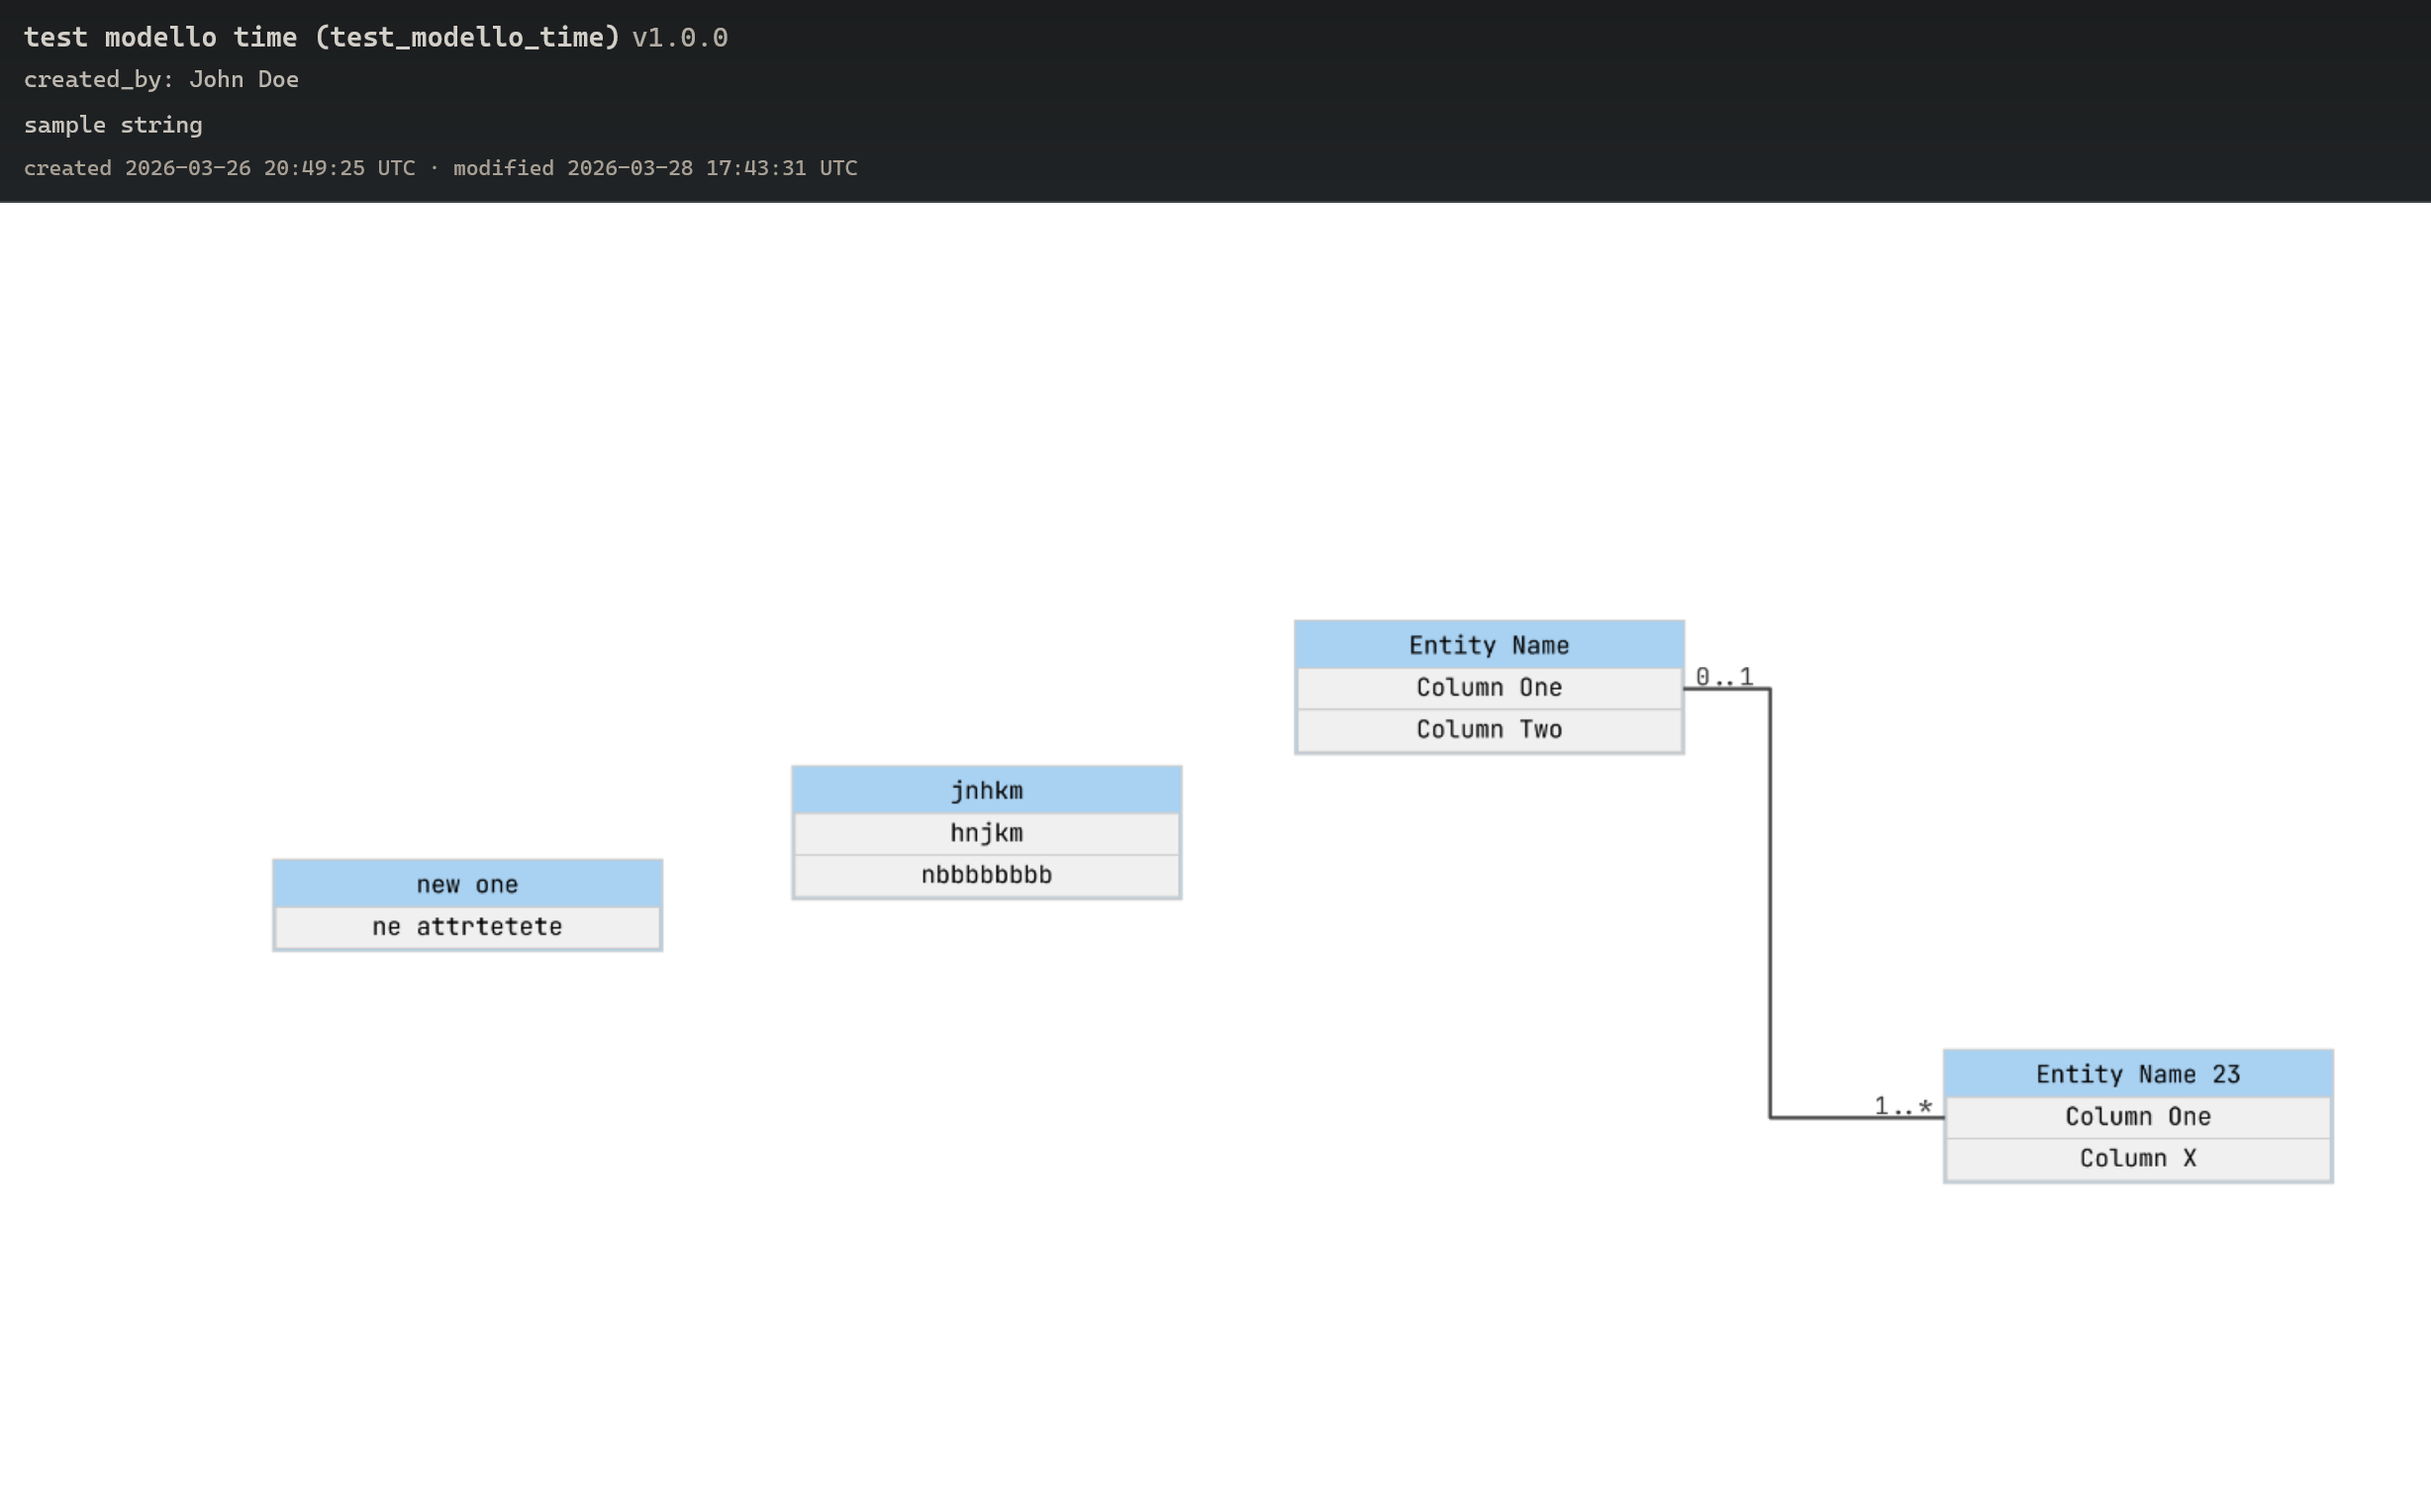
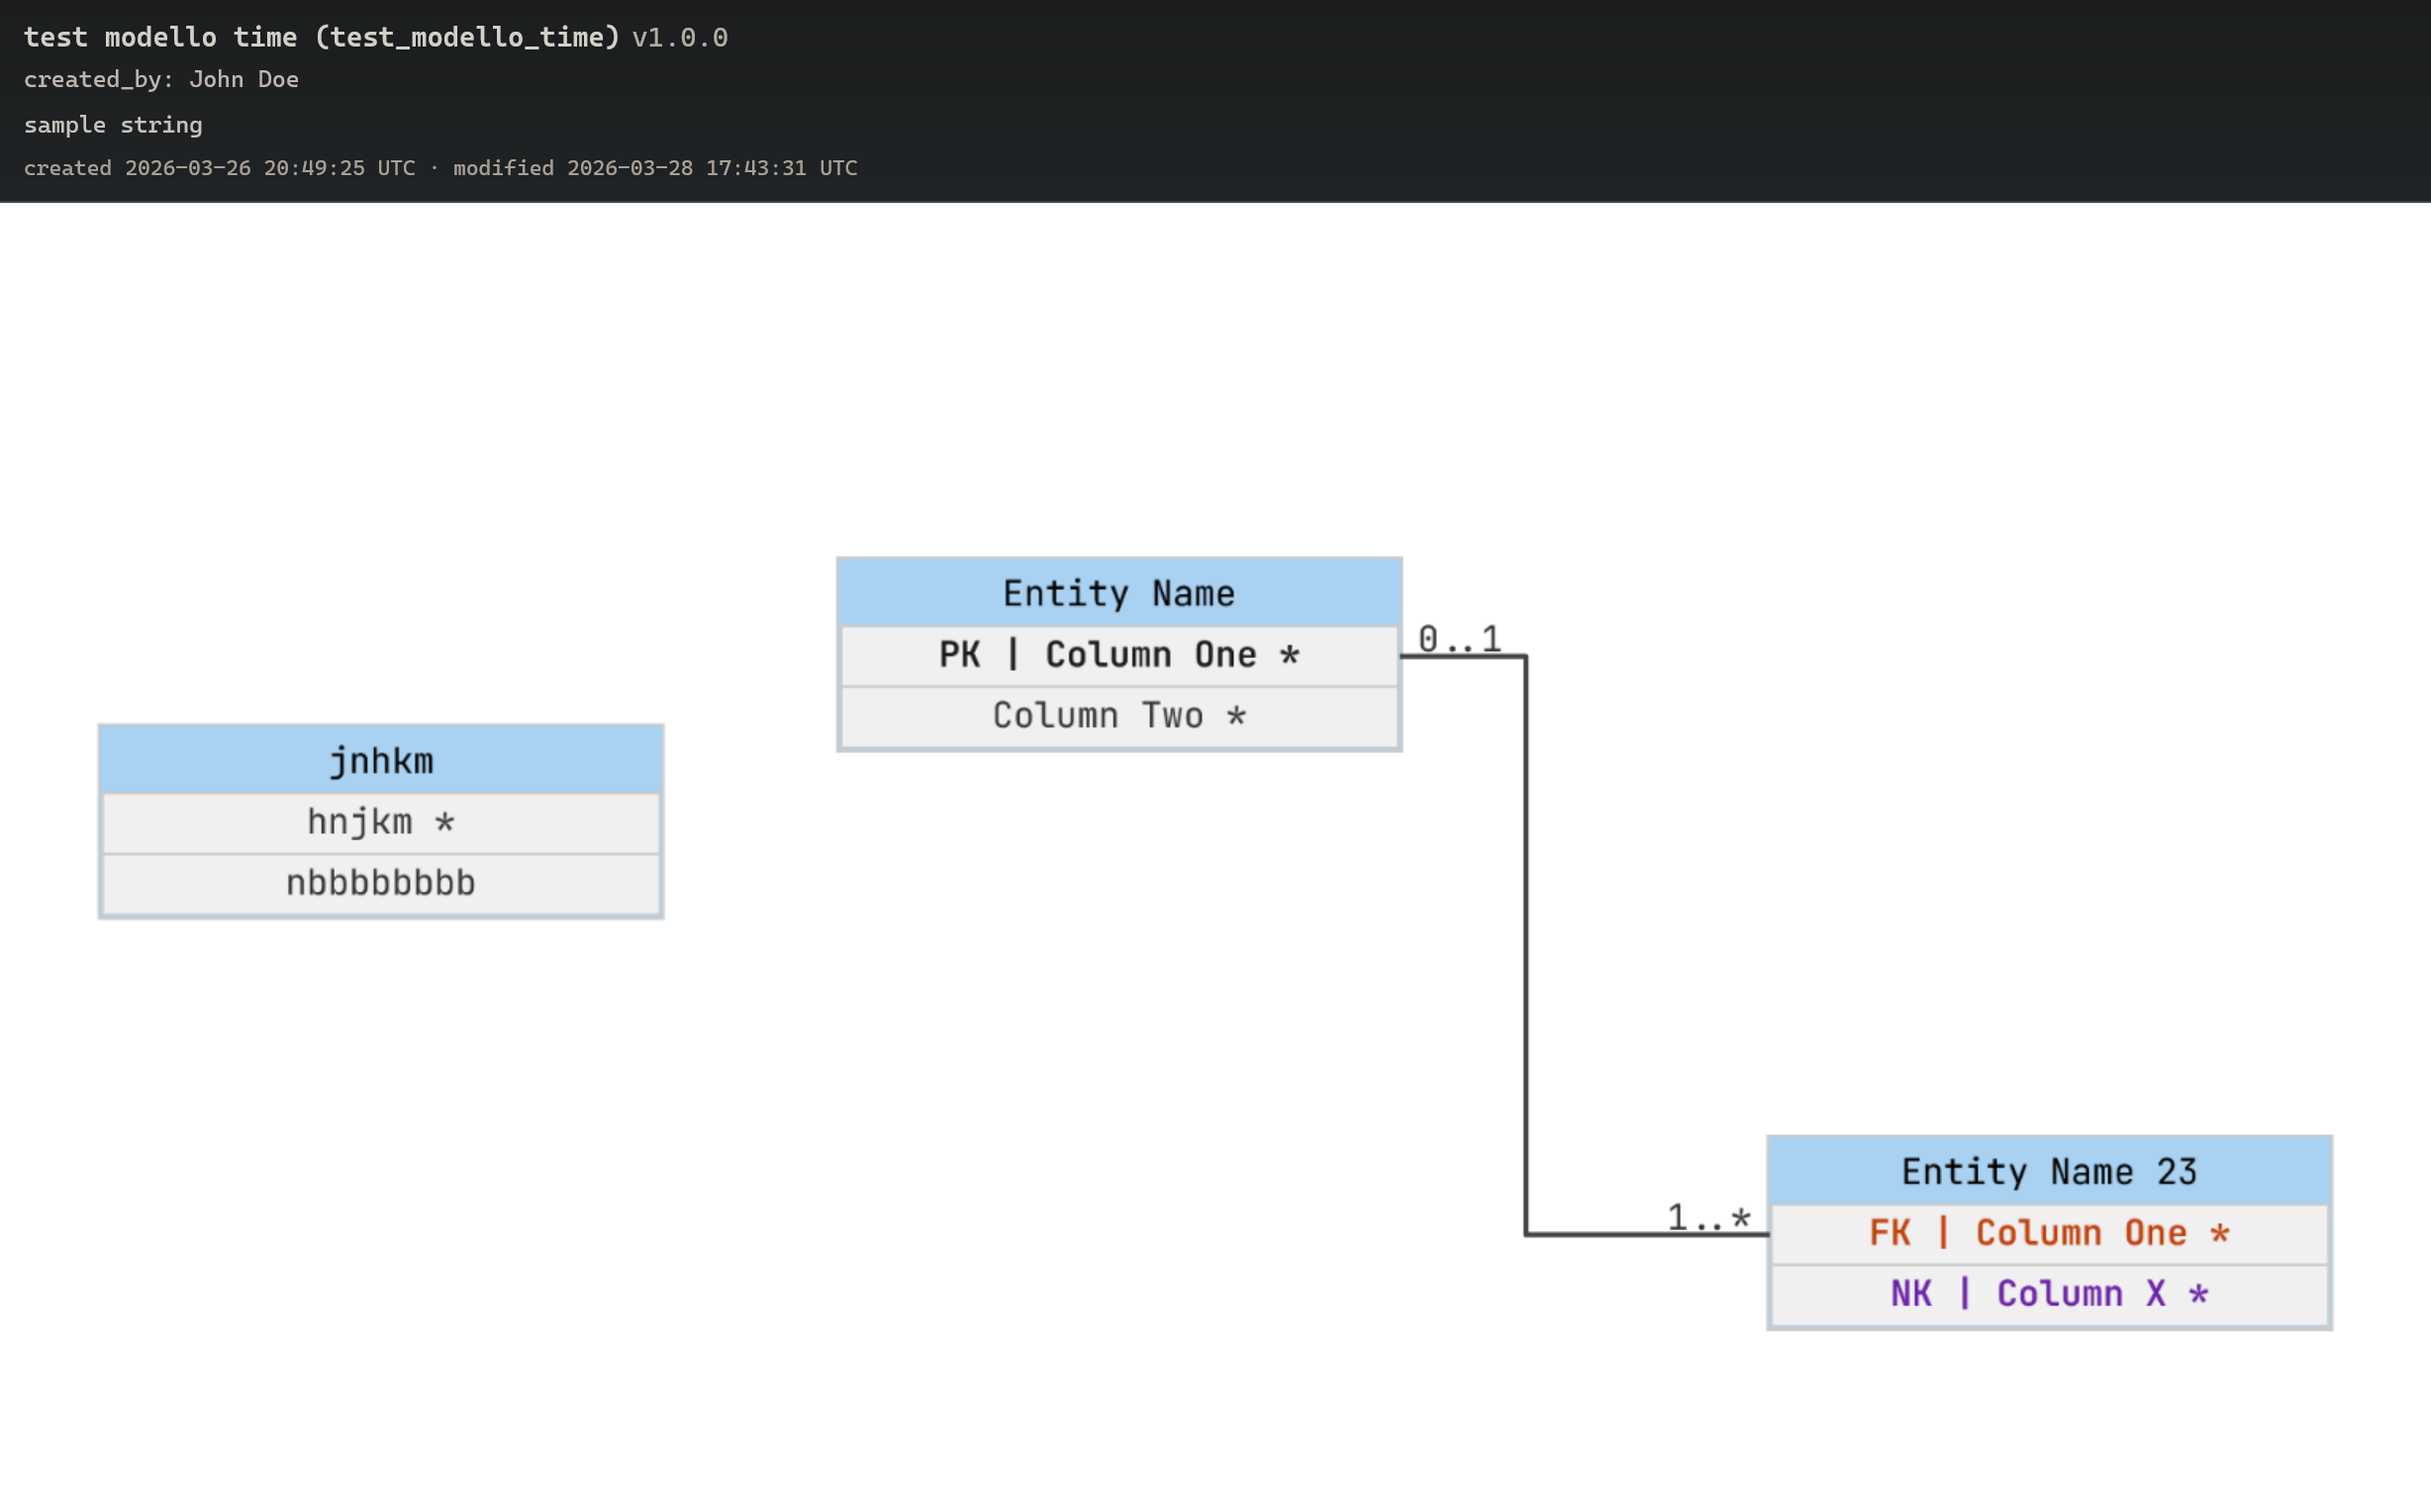
key / required styling on attributes

Changed region(s): [[0.3094, 0.3701, 0.7427, 0.6168], [0.6189, 0.6785, 0.9593, 0.8944], [0.0309, 0.4626, 0.2785, 0.6476]]

diff --git a/static/main.js b/static/main.js
@@ -27,6 +27,19 @@ function measureLabelWidth(text) {
     return ctx.measureText(t).width;
 }
 
+/** Canvas measureText with optional semibold/bold to match Cytoscape key-type labels. */
+function measureLabelWidthWithOptions(text, { bold = false } = {}) {
+    const t = text == null ? '' : String(text);
+    if (!_measureLabelCanvas) {
+        _measureLabelCanvas = document.createElement('canvas');
+    }
+    const ctx = _measureLabelCanvas.getContext('2d');
+    ctx.font = bold
+        ? `600 ${DIAGRAM_LABEL_FONT_PX}px ${DIAGRAM_FONT_FAMILY}`
+        : DIAGRAM_LABEL_FONT;
+    return ctx.measureText(t).width;
+}
+
 function displayNameForEntityCard(ent) {
     if (showTechnicalNamesInDiagram) {
         const t = String(ent?.technical_name ?? '').trim();
@@ -43,12 +56,49 @@ function displayNameForAttributeCard(attr) {
     return String(attr?.business_name ?? '');
 }
 
+function keyTypeAbbrev(keyType) {
+    switch (keyType) {
+        case 'PRIMARY':
+            return 'PK';
+        case 'FOREIGN':
+            return 'FK';
+        case 'NATURAL':
+            return 'NK';
+        default:
+            return '';
+    }
+}
+
+/** Diagram row: `PK | name *`, `name *`, `name` (no brackets). */
+function formatAttributeRowLabel(displayName, keyType, mandatory) {
+    const prefix = keyType ? `${keyTypeAbbrev(keyType)} | ` : '';
+    const tail = mandatory ? ' *' : '';
+    return `${prefix}${displayName}${tail}`;
+}
+
+function attributeRowLabelForAttr(attr) {
+    return formatAttributeRowLabel(
+        displayNameForAttributeCard(attr),
+        attr?.key_type ?? null,
+        attr?.mandatory === true,
+    );
+}
+
+function measureAttributeRowLabelWidth(attr) {
+    const row = attributeRowLabelForAttr(attr);
+    const bold =
+        attr?.key_type === 'PRIMARY' ||
+        attr?.key_type === 'FOREIGN' ||
+        attr?.key_type === 'NATURAL';
+    return measureLabelWidthWithOptions(row, { bold });
+}
+
 function computeCardWidthForEntity(ent) {
     const nameW = measureLabelWidth(displayNameForEntityCard(ent));
     const attrs = ent?.attributes || [];
     let maxAttrW = 0;
     for (const a of attrs) {
-        maxAttrW = Math.max(maxAttrW, measureLabelWidth(displayNameForAttributeCard(a)));
+        maxAttrW = Math.max(maxAttrW, measureAttributeRowLabelWidth(a));
     }
     const contentW = attrs.length === 0 ? nameW : Math.max(nameW, maxAttrW);
     return Math.max(MIN_CARD_WIDTH, Math.ceil(contentW + CARD_H_PADDING));
@@ -802,13 +852,39 @@ function effectiveDiagramLabel(businessName, technicalName) {
     return String(businessName ?? '');
 }
 
+/** Syncs one attribute node’s label, keyType, mandatory, and names from the in-memory model. */
+function applyAttributeNodeDataInCy(attr) {
+    if (!cy || !attr) return;
+    const n = cy.getElementById(attr.attribute_id);
+    if (n.empty()) return;
+    const kt = attr.key_type == null ? null : attr.key_type;
+    n.data('label', attributeRowLabelForAttr(attr));
+    n.data('businessName', String(attr.business_name ?? ''));
+    n.data('technicalName', String(attr.technical_name ?? ''));
+    n.data('keyType', kt);
+    n.data('mandatory', attr.mandatory === true);
+    const ent = findEntityContainingAttribute(attr.attribute_id);
+    if (ent) syncEntityCardWidthInCy(ent.entity_id);
+    else cy.style().update();
+}
+
 function syncCyLabelsToDisplayMode() {
     if (!cy) return;
     cy.batch(() => {
-        cy.nodes('[type = "entity"], [type = "entity-header"], [type = "attribute"]').forEach((n) => {
+        cy.nodes('[type = "entity"], [type = "entity-header"]').forEach((n) => {
             const biz = n.data('businessName');
             const tech = n.data('technicalName');
             n.data('label', effectiveDiagramLabel(biz, tech));
+        });
+        cy.nodes('[type = "attribute"]').forEach((n) => {
+            const attr = findAttributeById(n.id());
+            if (!attr) return;
+            const kt = attr.key_type == null ? null : attr.key_type;
+            n.data('label', attributeRowLabelForAttr(attr));
+            n.data('businessName', String(attr.business_name ?? ''));
+            n.data('technicalName', String(attr.technical_name ?? ''));
+            n.data('keyType', kt);
+            n.data('mandatory', attr.mandatory === true);
         });
     });
     for (const ent of model.entities || []) {
@@ -848,17 +924,11 @@ function patchEntityLabelInCy(entityId, businessName) {
 function patchAttributeLabelInCy(attributeId, businessName) {
     if (!cy) return;
     const m = findAttributeById(attributeId);
-    const biz =
-        businessName !== undefined && businessName !== null ? businessName : (m?.business_name ?? '');
-    const tech = m?.technical_name ?? '';
-    const label = effectiveDiagramLabel(biz, tech);
-    const n = cy.getElementById(attributeId);
-    if (n.nonempty()) {
-        n.data('label', label);
-        n.data('businessName', String(biz ?? ''));
+    if (!m) return;
+    if (businessName !== undefined && businessName !== null) {
+        m.business_name = businessName;
     }
-    const ent = findEntityContainingAttribute(attributeId);
-    if (ent) syncEntityCardWidthInCy(ent.entity_id);
+    applyAttributeNodeDataInCy(m);
 }
 
 function patchEntityTechnicalNameInCy(entityId, technicalName) {
@@ -881,16 +951,12 @@ function patchEntityTechnicalNameInCy(entityId, technicalName) {
 
 function patchAttributeTechnicalNameInCy(attributeId, technicalName) {
     if (!cy) return;
-    const n = cy.getElementById(attributeId);
     const m = findAttributeById(attributeId);
-    const t = technicalName ?? '';
-    const label = effectiveDiagramLabel(m?.business_name ?? '', t);
-    if (n.nonempty()) {
-        n.data('technicalName', t);
-        n.data('label', label);
+    if (!m) return;
+    if (technicalName !== undefined) {
+        m.technical_name = technicalName ?? '';
     }
-    const ent = findEntityContainingAttribute(attributeId);
-    if (ent) syncEntityCardWidthInCy(ent.entity_id);
+    applyAttributeNodeDataInCy(m);
 }
 
 function syncDetailsPersistBanner() {
@@ -1202,6 +1268,7 @@ function renderAttributeDetails(attr) {
     selKey.addEventListener('change', () => {
         const v = selKey.value;
         attr.key_type = v === '' ? null : v;
+        applyAttributeNodeDataInCy(attr);
         schedulePersistWorkingModel();
     });
     appendDetailsFormField(form, 'key_type', selKey);
@@ -1215,6 +1282,7 @@ function renderAttributeDetails(attr) {
         } else {
             delete attr.mandatory;
         }
+        applyAttributeNodeDataInCy(attr);
         schedulePersistWorkingModel();
     });
     appendDetailsFormField(form, 'mandatory', cbMandatory);
@@ -1715,14 +1783,15 @@ function modelToNodesEdges() {
             nodes.push(
                 {
                     data: {
-                        label: attr.business_name,
+                        label: attributeRowLabelForAttr(attr),
                         id: attr.attribute_id,
                         businessName: attr.business_name,
                         technicalName: attr.technical_name,
                         dataType: attr.data_type,
                         precision: (attr.precision === undefined) ? undefined : attr.precision,
                         scale: (attr.scale === undefined) ? undefined : attr.scale,
-                        keyType: attr.key_type,
+                        keyType: attr.key_type == null ? null : attr.key_type,
+                        mandatory: attr.mandatory === true,
                         sourceMapping: attr.source_mapping,
                         definition: attr.definition,
                         parent: ent.entity_id,
@@ -2116,6 +2185,29 @@ const cyStyle = [
             'border-width': 1,
             'font-family': DIAGRAM_FONT_FAMILY,
             'font-size': `${DIAGRAM_LABEL_FONT_PX}px`,
+            'color': '#333',
+            'font-weight': 'normal',
+        }
+    },
+    {
+        selector: 'node[type = "attribute"][keyType = "PRIMARY"]',
+        style: {
+            'font-weight': 'bold',
+            'color': '#1a1a1a',
+        }
+    },
+    {
+        selector: 'node[type = "attribute"][keyType = "FOREIGN"]',
+        style: {
+            'font-weight': 'bold',
+            'color': '#c2410c',
+        }
+    },
+    {
+        selector: 'node[type = "attribute"][keyType = "NATURAL"]',
+        style: {
+            'font-weight': 'bold',
+            'color': '#6b21a8',
         }
     },
     {
